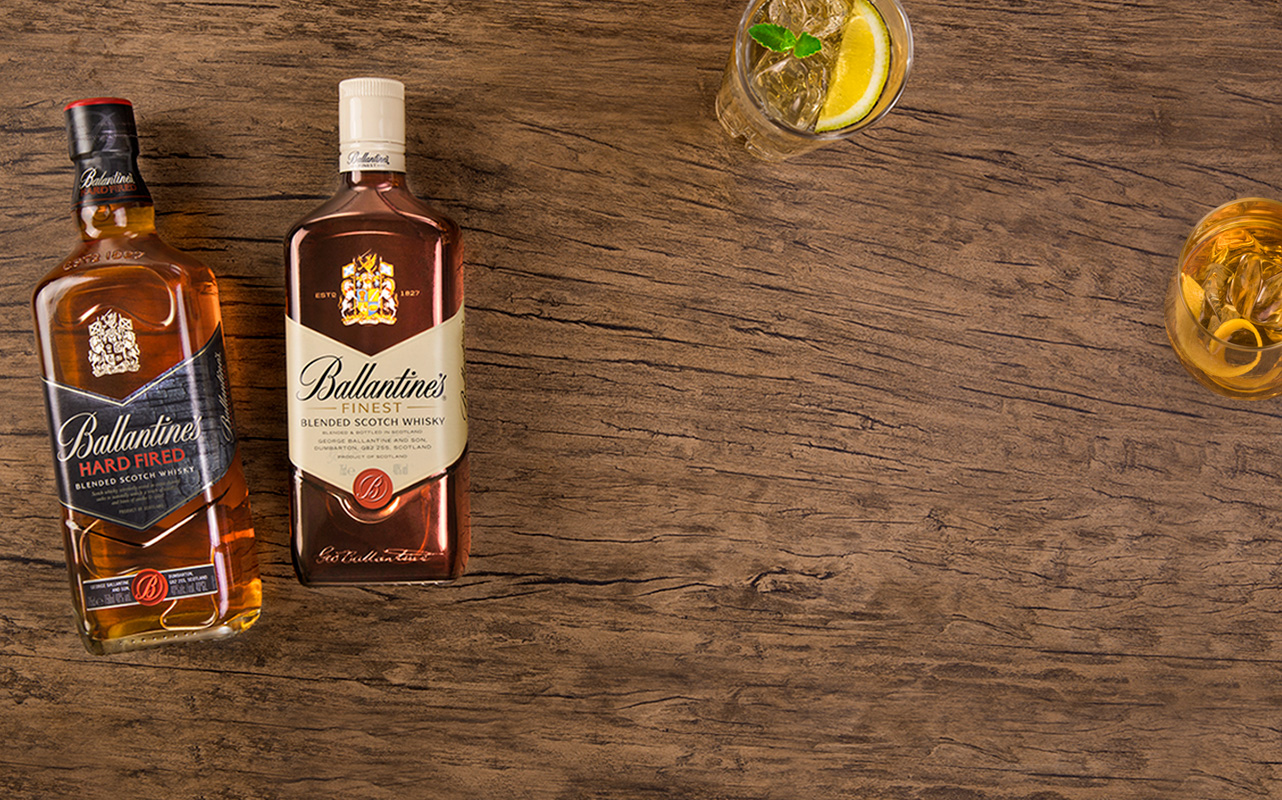
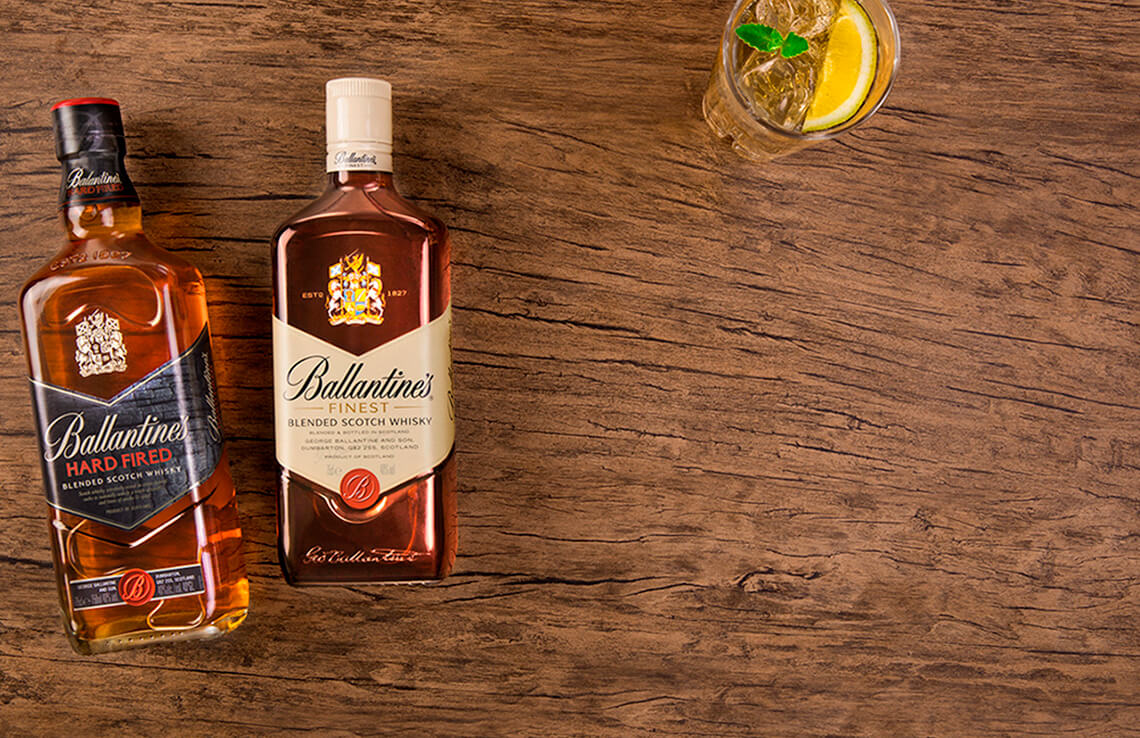
ajuste fondo

diff --git a/platforms/browser/www/css/index.css b/platforms/browser/www/css/index.css
@@ -110,7 +110,7 @@ a.time{
   width: 100%;
   height: 100%;
   position: absolute;
-  background: url(../img/fondo_premio.jpg) no-repeat center center #000;
+  background: url(../img/fondo_premio.jpg) no-repeat left center #000;
   -webkit-background-size: cover;
   -moz-background-size: cover;
   -o-background-size: cover;

diff --git a/www/css/index.css b/www/css/index.css
@@ -110,7 +110,7 @@ a.time{
   width: 100%;
   height: 100%;
   position: absolute;
-  background: url(../img/fondo_premio.jpg) no-repeat center center #000;
+  background: url(../img/fondo_premio.jpg) no-repeat left center #000;
   -webkit-background-size: cover;
   -moz-background-size: cover;
   -o-background-size: cover;
